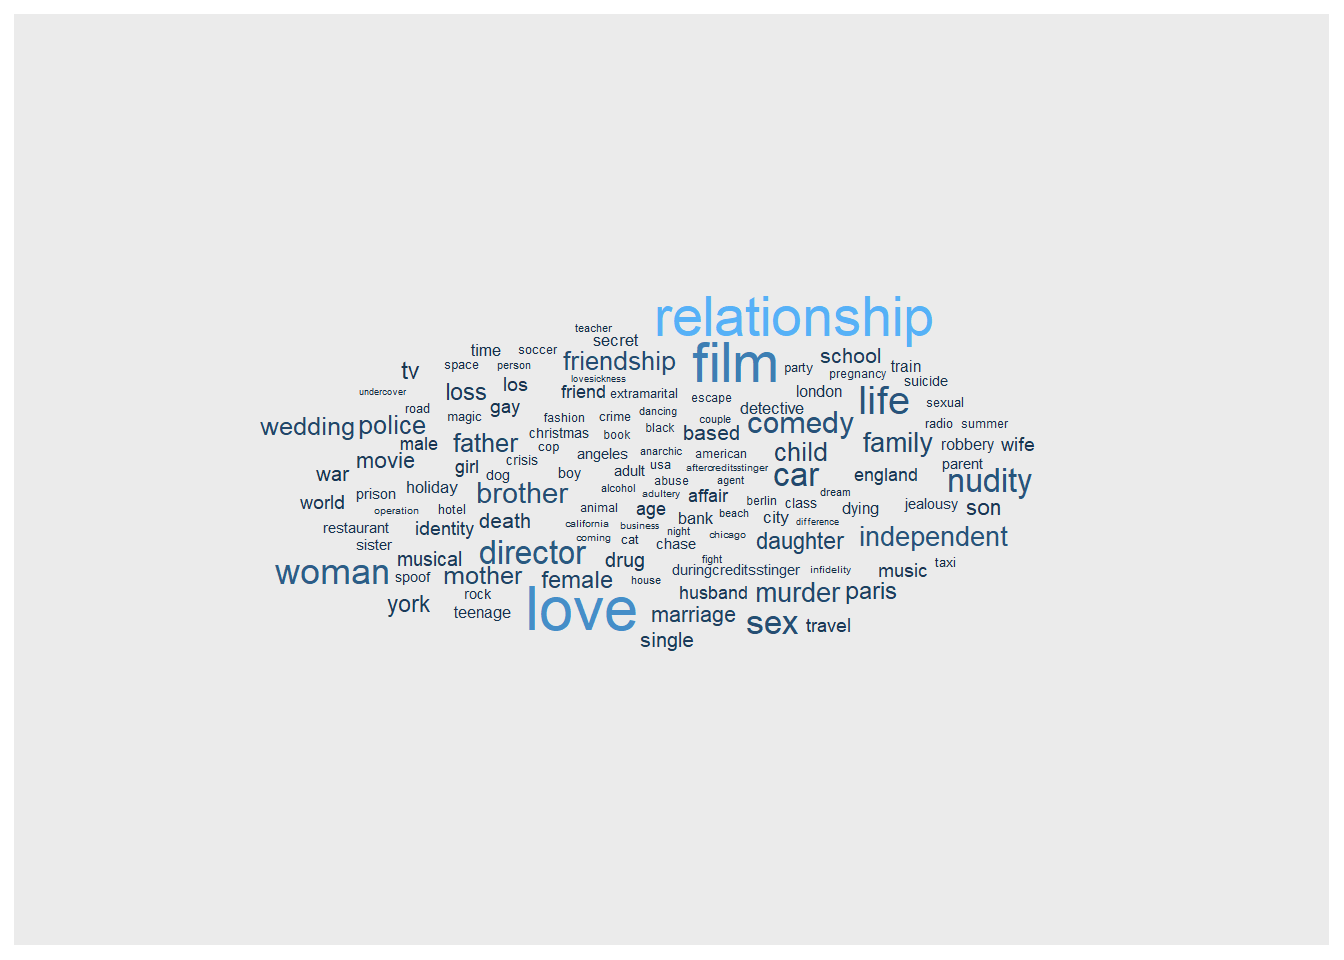
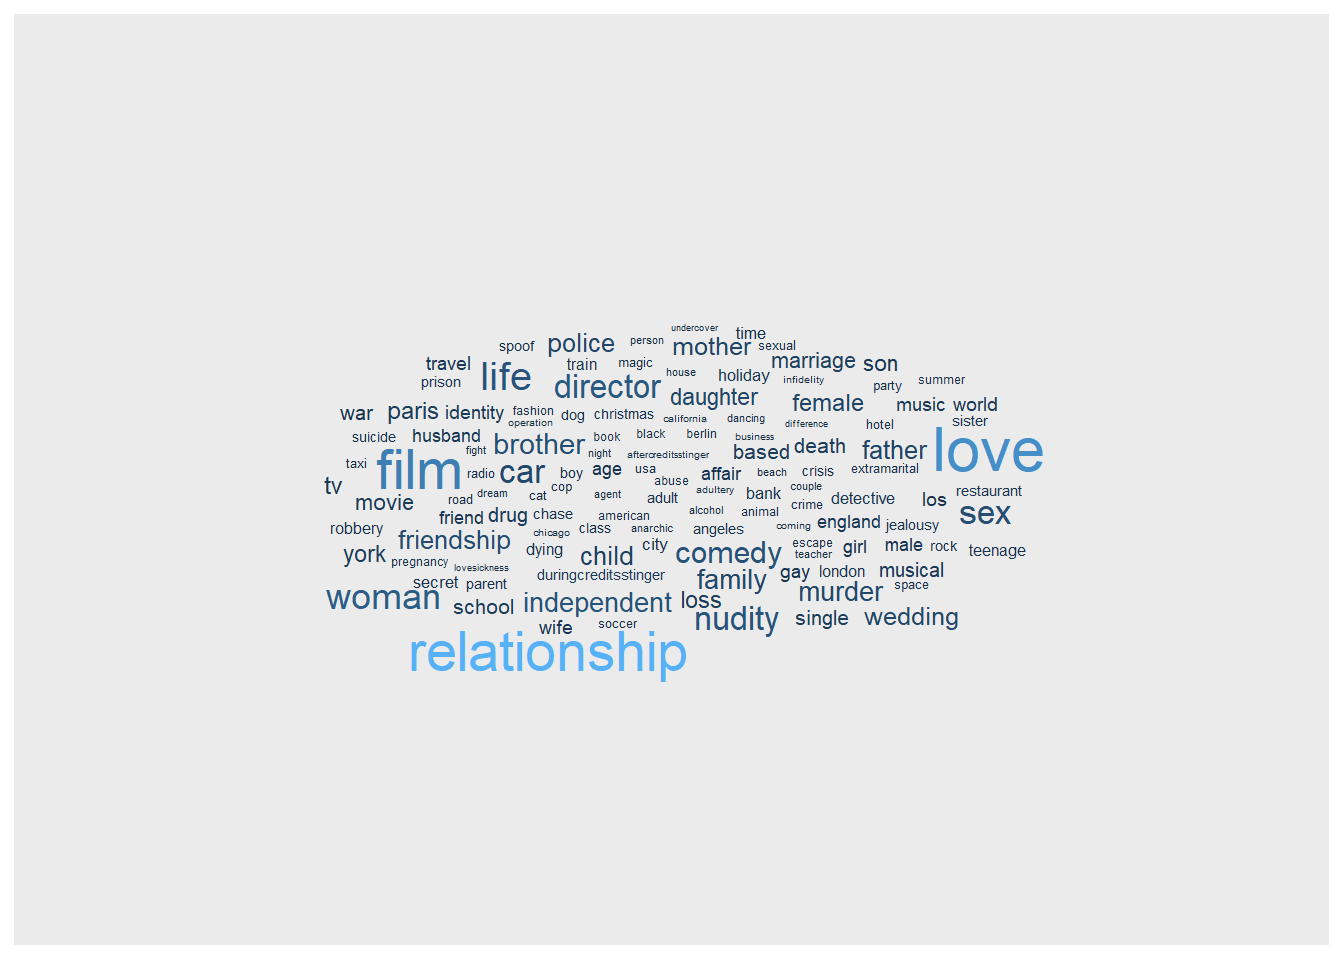
Project widget.

Changed region(s): [[0.1875, 0.3125, 0.7812, 0.7188]]

diff --git a/content/Blog/visualizations/dataviz.html b/content/Blog/visualizations/dataviz.html
@@ -9,10 +9,10 @@ output:
   blogdown::html_page:
     toc: true
 menu:
-  Blog:
+  blog:
     parent: Posts
     weight: 1
-type: docs
+type: posts
 editor_options: 
   chunk_output_type: inline
 lastmod: '2021-04-24T23:09:32-04:00'
@@ -27,15 +27,15 @@ shiny: true
 <script src="/rmarkdown-libs/wordcloud2-binding/wordcloud2.js"></script>
 
 
-<p><img src="/Blog/visualizations/dataviz_files/figure-html/Comedy-1.gif" /><!-- --><img src="/Blog/visualizations/dataviz_files/figure-html/Comedy-2.png" width="672" /></p>
+<p><img src="/blog/visualizations/dataviz_files/figure-html/Comedy-1.gif" /><!-- --><img src="/blog/visualizations/dataviz_files/figure-html/Comedy-2.png" width="672" /></p>
 <div id="htmlwidget-1" style="width:672px;height:480px;" class="wordcloud2 html-widget"></div>
 <script type="application/json" data-for="htmlwidget-1">{"x":{"word":["abuse","adult","adultery","affair","aftercreditsstinger","age","agent","alcohol","american","anarchic","angeles","animal","bank","based","beach","berlin","black","book","boy","brother","business","california","car","cat","chase","chicago","child","christmas","city","class","comedy","coming","cop","couple","crime","crisis","dancing","daughter","death","detective","difference","director","dog","dream","drug","duringcreditsstinger","dying","england","escape","extramarital","family","fashion","father","female","fight","film","friend","friendship","gay","girl","holiday","hotel","house","husband","identity","independent","infidelity","jealousy","life","london","los","loss","love","lovesickness","magic","male","marriage","mother","movie","murder","music","musical","night","nudity","operation","parent","paris","party","person","police","pregnancy","prison","radio","relationship","restaurant","road","robbery","rock","school","secret","sex","sexual","single","sister","soccer","son","space","spoof","suicide","summer","taxi","teacher","teenage","time","train","travel","tv","undercover","usa","war","wedding","wife","woman","world","york"],"freq":[13,16,11,21,15,20,12,12,14,13,19,13,19,28,12,12,13,12,14,47,11,11,42,11,18,11,34,18,17,15,51,11,12,11,13,15,12,38,27,23,11,57,14,11,25,26,18,25,13,18,40,14,38,36,11,92,22,45,21,19,23,14,11,25,26,52,12,20,53,19,19,28,106,11,15,21,34,38,29,42,23,27,11,53,11,18,32,14,12,37,16,18,13,136,21,13,20,13,28,20,47,15,28,17,15,24,14,16,17,13,12,12,21,18,17,24,22,11,12,22,40,21,61,23,28],"fontFamily":"Segoe UI","fontWeight":"bold","color":"random-dark","minSize":0,"weightFactor":1.32352941176471,"backgroundColor":"black","gridSize":0,"minRotation":-0.785398163397448,"maxRotation":0.785398163397448,"shuffle":true,"rotateRatio":0.4,"shape":"circle","ellipticity":0.65,"figBase64":null,"hover":null},"evals":[],"jsHooks":{"render":[{"code":"function(el,x){\n                        console.log(123);\n                        if(!iii){\n                          window.location.reload();\n                          iii = False;\n\n                        }\n  }","data":null}]}}</script>
-<p><img src="/Blog/visualizations/dataviz_files/figure-html/Action-1.gif" /><!-- --><img src="/Blog/visualizations/dataviz_files/figure-html/Action-2.png" width="672" /></p>
+<p><img src="/blog/visualizations/dataviz_files/figure-html/Action-1.gif" /><!-- --><img src="/blog/visualizations/dataviz_files/figure-html/Action-2.png" width="672" /></p>
 <div id="htmlwidget-2" style="width:672px;height:480px;" class="wordcloud2 html-widget"></div>
 <script type="application/json" data-for="htmlwidget-2">{"x":{"word":["aftercreditsstinger","agent","airplane","alien","angeles","army","arts","assassin","assassination","bank","based","battle","bomb","brother","car","chase","cia","city","comic","computer","cop","corruption","crime","criminal","cult","daughter","dc","dealer","death","detective","disaster","drug","duringcreditsstinger","dystopia","england","escape","evil","explosion","family","fbi","female","fight","fighter","film","future","game","gang","giant","gun","gunfight","hand","helicopter","hero","hostage","human","identity","ii","independent","intelligence","investigation","island","japan","kidnapping","killer","life","london","los","loss","love","mafia","marine","martial","mission","monster","movie","murder","nuclear","nudity","opera","operation","paris","pirate","police","prison","relationship","rescue","revenge","robbery","robot","saving","secret","sequel","service","ship","shootout","space","spy","super","superhero","suspense","sword","terrorist","time","travel","treasure","tv","undercover","video","villain","violence","war","woman","world","york"],"freq":[16,41,17,25,24,22,19,14,11,25,48,19,23,22,42,37,12,17,14,15,20,16,19,13,11,11,11,12,29,20,17,34,16,33,20,15,11,19,12,19,21,16,16,37,16,15,14,16,18,11,11,12,25,13,12,29,11,14,22,12,12,17,12,22,21,13,24,18,22,11,13,21,30,25,13,46,12,19,15,11,17,11,54,18,26,12,31,23,15,13,69,21,18,20,20,53,18,12,16,21,16,13,13,13,19,12,19,16,13,40,72,12,37,25],"fontFamily":"Segoe UI","fontWeight":"bold","color":"random-dark","minSize":0,"weightFactor":2.5,"backgroundColor":"black","gridSize":0,"minRotation":-0.785398163397448,"maxRotation":0.785398163397448,"shuffle":true,"rotateRatio":0.4,"shape":"circle","ellipticity":0.65,"figBase64":null,"hover":null},"evals":[],"jsHooks":{"render":[{"code":"function(el,x){\n                        console.log(123);\n                        if(!iii){\n                          window.location.reload();\n                          iii = False;\n\n                        }\n  }","data":null}]}}</script>
-<p><img src="/Blog/visualizations/dataviz_files/figure-html/Drama-1.gif" /><!-- --><img src="/Blog/visualizations/dataviz_files/figure-html/Drama-2.png" width="672" /></p>
+<p><img src="/blog/visualizations/dataviz_files/figure-html/Drama-1.gif" /><!-- --><img src="/blog/visualizations/dataviz_files/figure-html/Drama-2.png" width="672" /></p>
 <div id="htmlwidget-3" style="width:672px;height:480px;" class="wordcloud2 html-widget"></div>
 <script type="application/json" data-for="htmlwidget-3">{"x":{"word":["1970s","abuse","accident","addiction","adult","adultery","affair","age","agent","airplane","alcohol","alcoholic","alien","american","amnesia","angeles","animal","army","art","arts","assassination","attack","attempt","attempted","author","bad","bank","bar","based","battle","beach","berlin","biography","birthday","black","blackmail","blindness","bomb","book","boxer","boxing","boy","british","brother","brutality","business","california","camp","car","cat","catholicism","celebration","century","chase","cheating","child","childhood","china","christmas","church","cia","cinema","city","civil","class","classic","club","cold","comedy","coming","concert","conflict","cop","corruption","country","court","cowardliness","crash","crime","criminal","crisis","crush","cult","culture","daily","dance","dancing","daughter","dealer","death","depression","despair","detective","difference","director","disabled","disaster","divorce","doctor","dog","double","drama","dream","driver","drug","duringcreditsstinger","dying","dystopia","east","england","epic","erotic","eroticism","escape","extramarital","factory","faith","falling","family","fantasy","farm","fashion","father","fbi","female","fight","film","forbidden","france","french","friend","friends","friendship","funeral","future","gang","gangster","gay","german","germany","girl","gold","guilt","gun","hero","holiday","home","homeless","homosexuality","horse","hospital","hostage","hotel","house","human","husband","identity","ii","illegal","illness","immigration","independent","individual","infidelity","insanity","investigation","irish","island","italy","japan","japanese","jazz","jealousy","jew","jewish","job","journalist","junkie","kidnapping","killer","law","lawyer","lesbian","letter","lgbt","life","london","los","loss","love","lover","lovers","lovesickness","madrid","mafia","male","marriage","martial","memory","menage","mental","mentally","mexico","middle","military","mission","money","motel","mother","movie","murder","music","musical","nazi","nazis","neighbor","newspaper","night","nightclub","noir","nuclear","nudity","nurse","obsession","ocean","officer","operation","painting","paranoia","parent","paris","party","past","peasant","penalty","period","person","photographer","planned","play","police","political","politics","pop","power","pregnancy","president","priest","prison","prisoner","private","producer","professor","prostitute","prostitution","psychiatrist","puberty","race","racism","radio","rape","reality","record","relationship","religion","rescue","resistance","restaurant","revenge","revolution","road","robbery","rock","romance","school","scotland","sea","secret","sense","sequel","setting","sex","sexual","sexuality","ship","sight","silent","singer","single","sister","society","soldier","son","south","southern","space","spain","sport","star","station","story","street","student","suicide","summer","suspense","taxi","teacher","teenage","teenager","terror","thief","time","torture","town","tradition","train","training","travel","triangle","trip","trois","true","tv","underdog","unsimulated","unsociability","usa","vacation","veteran","vietnam","village","violence","violent","vision","waitress","war","wedding","white","wife","woman","womens","worker","world","xenophobia","york","youth"],"freq":[23,45,14,13,26,39,42,35,28,19,18,13,13,28,12,34,13,24,12,13,19,11,23,13,22,13,29,13,101,14,19,37,40,12,21,21,14,29,15,13,12,11,18,97,12,24,11,20,55,14,12,11,13,20,12,91,16,12,11,14,11,14,24,20,28,12,11,16,13,22,14,14,12,28,17,30,11,18,25,18,30,20,15,12,17,12,16,75,18,125,30,13,43,21,122,19,13,20,26,16,18,11,31,15,88,12,70,13,17,44,11,12,21,17,38,11,15,12,90,17,13,11,82,24,58,15,227,11,18,29,18,12,77,11,17,28,13,44,20,23,23,11,12,17,13,13,12,11,19,16,22,13,35,16,12,69,61,40,19,21,14,125,36,19,15,17,11,20,16,25,15,14,36,17,12,12,22,11,15,20,16,11,13,19,20,147,33,34,123,267,35,17,22,13,13,28,68,13,13,11,17,11,15,15,18,21,34,12,72,47,140,49,39,13,14,14,11,18,11,42,11,79,14,21,13,15,19,14,11,28,52,19,18,11,14,11,27,11,13,13,76,11,20,15,16,28,11,13,56,13,12,11,12,30,20,11,15,13,11,20,52,18,15,241,16,12,15,21,39,23,23,33,16,13,52,11,18,52,20,12,13,96,58,13,24,21,16,12,29,58,22,22,52,19,19,18,15,23,18,17,24,17,12,71,18,53,12,43,27,16,19,17,24,19,21,14,14,12,17,28,14,11,23,23,12,12,28,38,12,11,17,20,64,13,11,11,172,28,11,55,146,16,12,69,11,59,19],"fontFamily":"Segoe UI","fontWeight":"bold","color":"random-dark","minSize":0,"weightFactor":0.674157303370786,"backgroundColor":"black","gridSize":0,"minRotation":-0.785398163397448,"maxRotation":0.785398163397448,"shuffle":true,"rotateRatio":0.4,"shape":"circle","ellipticity":0.65,"figBase64":null,"hover":null},"evals":[],"jsHooks":{"render":[{"code":"function(el,x){\n                        console.log(123);\n                        if(!iii){\n                          window.location.reload();\n                          iii = False;\n\n                        }\n  }","data":null}]}}</script>
-<p><img src="/Blog/visualizations/dataviz_files/figure-html/Thriller-1.gif" /><!-- --><img src="/Blog/visualizations/dataviz_files/figure-html/Thriller-2.png" width="672" /></p>
+<p><img src="/blog/visualizations/dataviz_files/figure-html/Thriller-1.gif" /><!-- --><img src="/blog/visualizations/dataviz_files/figure-html/Thriller-2.png" width="672" /></p>
 <div id="htmlwidget-4" style="width:672px;height:480px;" class="wordcloud2 html-widget"></div>
 <script type="application/json" data-for="htmlwidget-4">{"x":{"word":["abuse","affair","agent","alien","amnesia","angeles","animal","army","assassin","assassination","bank","based","berlin","black","blackmail","blood","bomb","brother","car","chase","child","cia","class","cold","computer","corruption","crime","daughter","dealer","death","detective","double","drug","duringcreditsstinger","dying","dystopia","england","escape","extramarital","family","father","fbi","female","fight","film","friendship","future","gun","helicopter","hitman","hotel","human","husband","identity","independent","intelligence","invasion","investigation","island","kidnapping","killer","life","london","los","loss","love","mental","mission","money","movie","murder","neonoir","noir","nuclear","nudity","paris","planned","police","prison","rape","relationship","revenge","robbery","school","secret","serial","service","sex","sexual","shark","sister","son","space","spy","suicide","suspense","terror","terrorist","time","train","travel","undercover","usa","violence","virus","war","white","wife","woman","world","york"],"freq":[18,13,43,19,11,21,11,11,11,19,17,33,17,11,13,16,25,25,43,18,17,12,12,15,18,15,12,25,12,31,30,11,48,11,15,30,35,18,13,18,16,29,22,12,57,16,13,12,11,15,11,11,26,30,22,20,11,13,11,14,44,27,27,21,37,30,13,25,19,12,114,14,29,13,29,14,11,45,21,18,44,30,17,11,70,12,20,20,11,11,13,16,34,21,27,41,12,15,11,12,12,16,16,55,11,55,12,21,15,19,20],"fontFamily":"Segoe UI","fontWeight":"bold","color":"random-dark","minSize":0,"weightFactor":1.57894736842105,"backgroundColor":"black","gridSize":0,"minRotation":-0.785398163397448,"maxRotation":0.785398163397448,"shuffle":true,"rotateRatio":0.4,"shape":"circle","ellipticity":0.65,"figBase64":null,"hover":null},"evals":[],"jsHooks":{"render":[{"code":"function(el,x){\n                        console.log(123);\n                        if(!iii){\n                          window.location.reload();\n                          iii = False;\n\n                        }\n  }","data":null}]}}</script>
